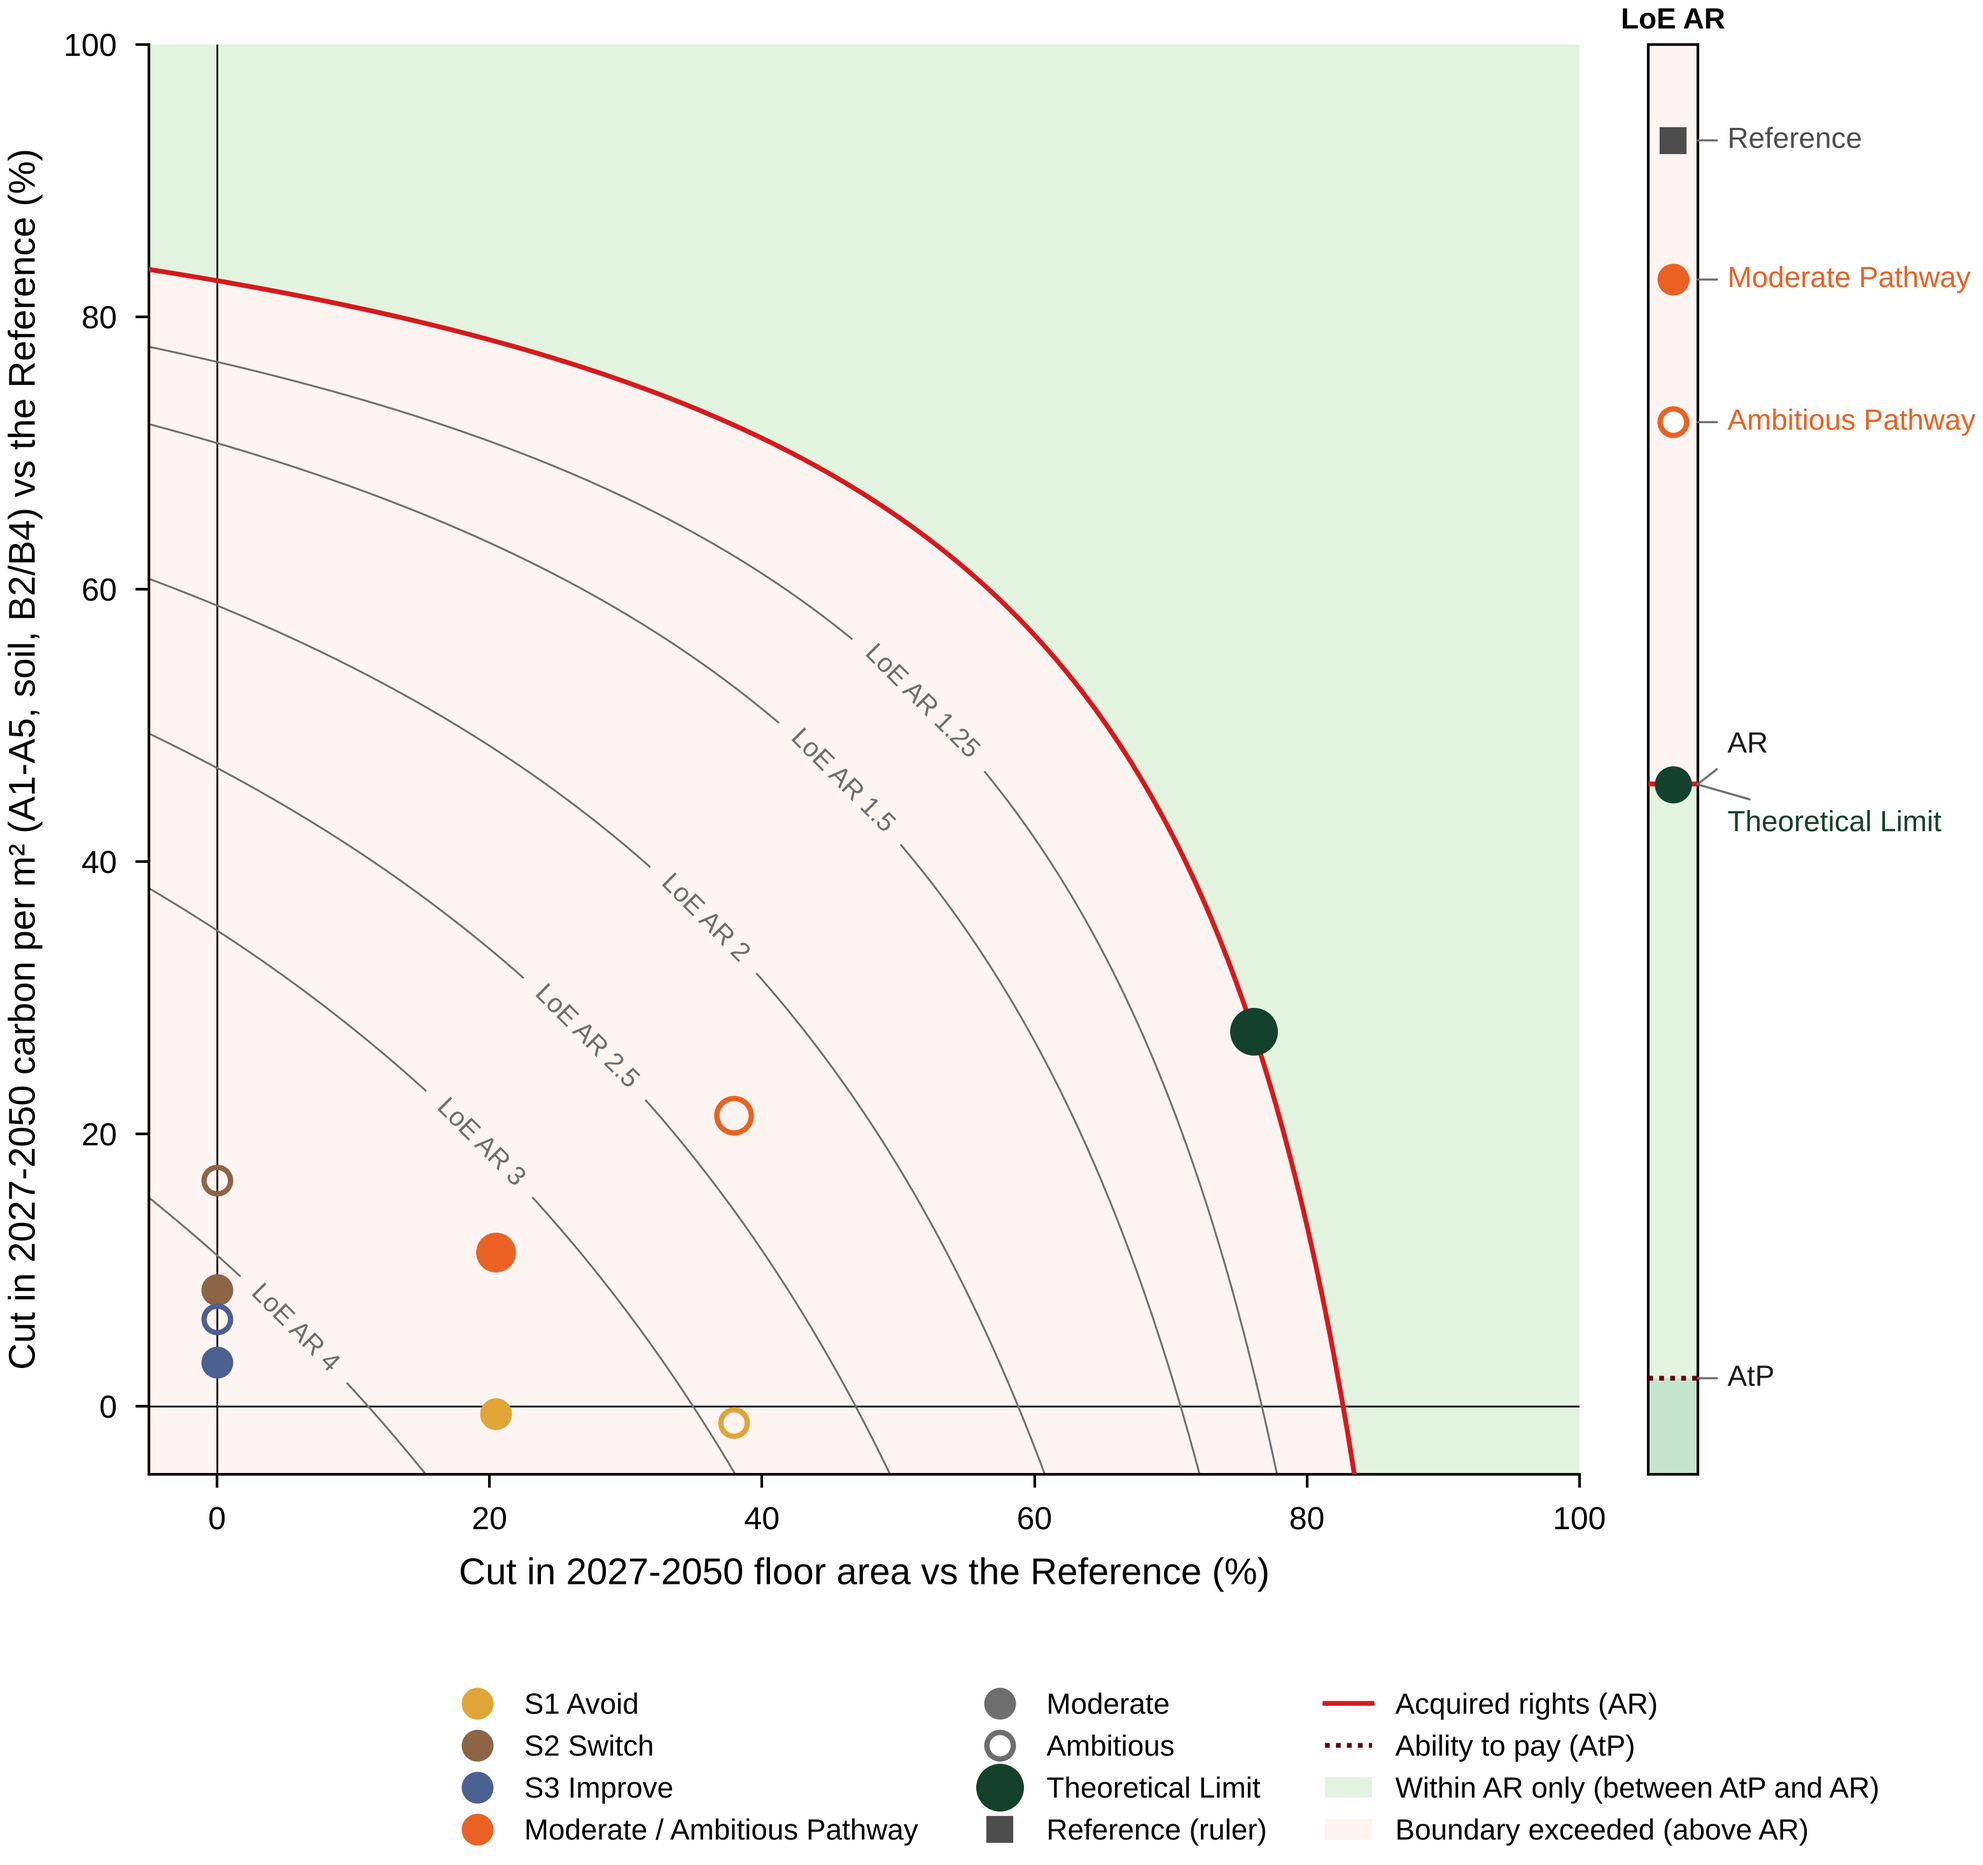
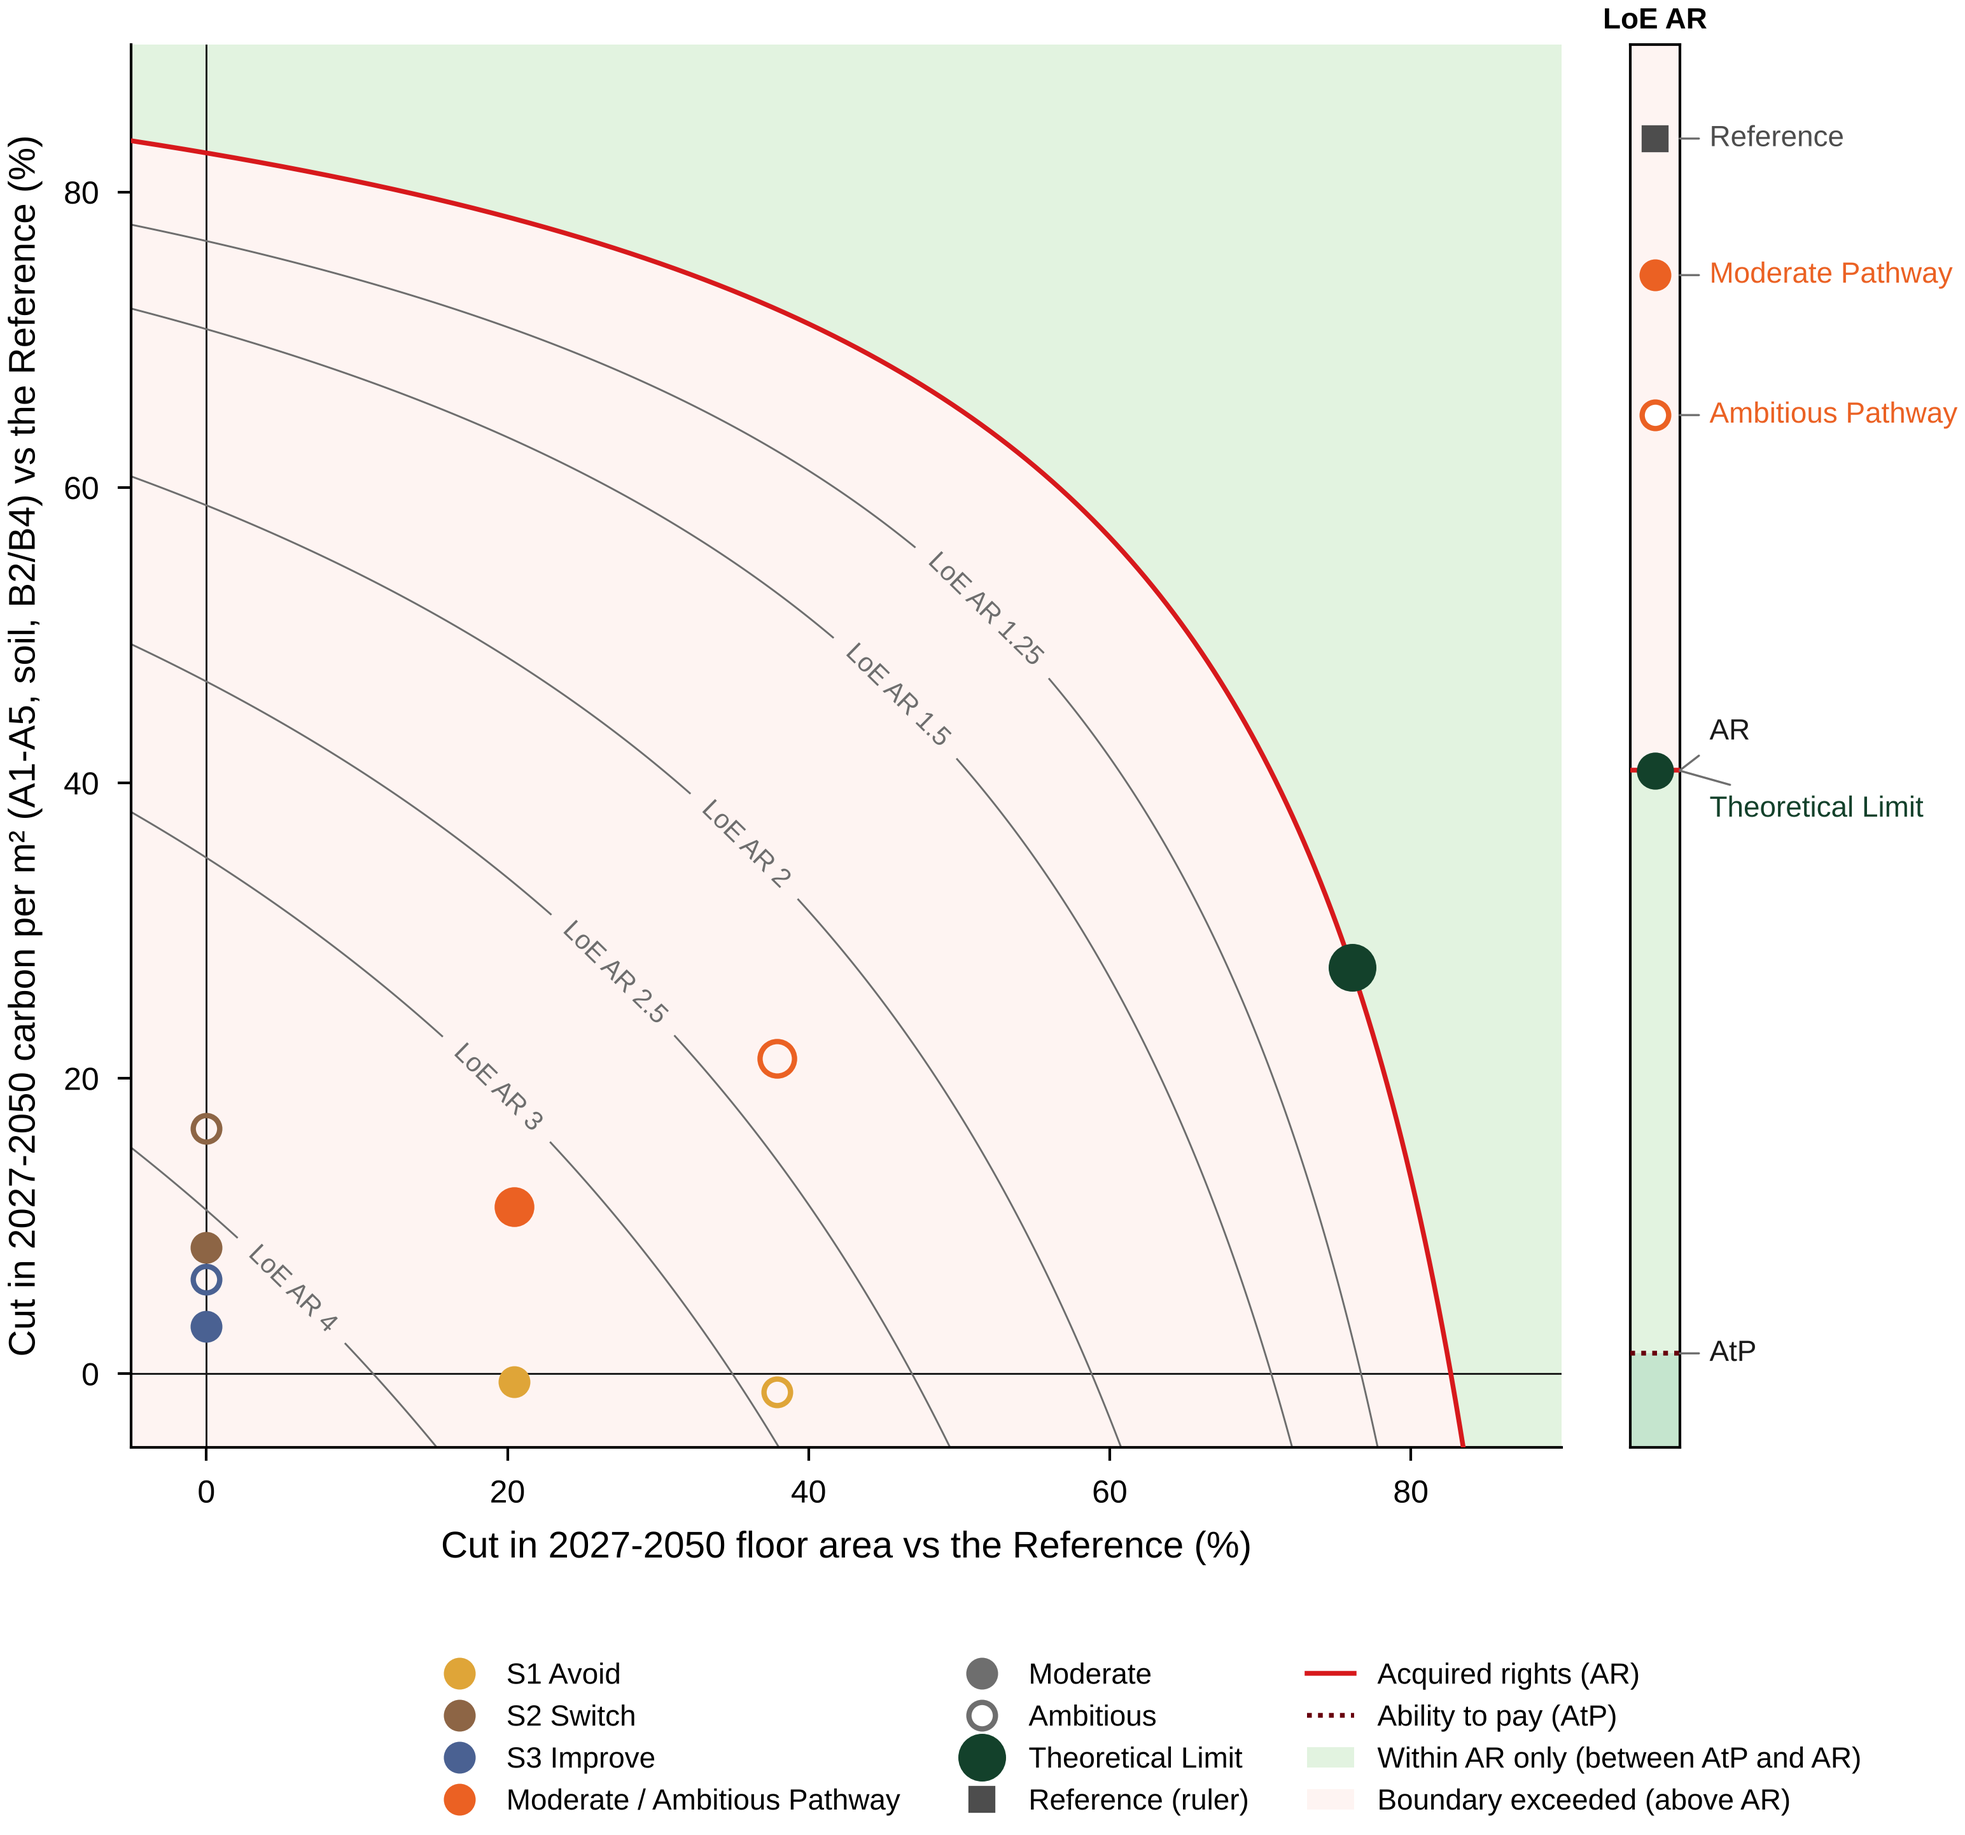
v4.2.2: Fig2 legend tighter, Fig6 clipped at 90% and tightened, Fig8a rows from Completion rate up restored; 600 dpi export, data byte-identical

diff --git a/figures/paper_main.py b/figures/paper_main.py
@@ -336,7 +336,7 @@ def fig2():
         plt.setp(a.get_yticklabels(), visible=False)
     lo_, hi_ = ax[0].get_ylim()
     ticks = [t for t in ax[0].get_yticks() if lo_ <= t <= hi_]
-    ax[0].set_ylim(lo_, hi_ * 1.25)                                   # room above the data for the legends (tight)
+    ax[0].set_ylim(lo_, hi_ * 1.16)                                   # room above the data for the legends (tight)
     ax[0].set_yticks(ticks)                                           # ticks only over the data range
     ax[0].set_ylabel('Embodied carbon (kt CO₂e per year)')
     LEG = dict(loc='upper right', fontsize=S.FONT_MIN, frameon=False, borderaxespad=0.2, labelspacing=0.3)
@@ -647,7 +647,7 @@ def fig5():
 # ---------------------------------------------------------------------------
 # Fig6: the solution space against AR and AtP
 # ---------------------------------------------------------------------------
-FIG6_LIM = (-0.05, 1.0)        # MODEL v3.3.2: both axes from -5% to 100% (v3.3.1: to 110%)
+FIG6_LIM = (-0.05, 0.90)        # MODEL v3.3.2: both axes from -5% to 100% (v3.3.1: to 110%)
 FIG6_N = 421                   # grid points per axis (0.25% steps)
 
 
@@ -735,8 +735,8 @@ def fig6():
     g = np.linspace(lo, hi, FIG6_N)
     X, Y = np.meshgrid(g, g)
     Z = fig6_loe(bc, X, Y)
-    fig = plt.figure(figsize=S.figsize('double', 126))
-    ax = fig.add_axes([0.08, 0.21, 0.52, 0.755])
+    fig = plt.figure(figsize=S.figsize('double', 122))
+    ax = fig.add_axes([0.08, 0.215, 0.52, 0.765])
     S.boundary_field(ax, 100 * X, 100 * Y, Z, 1.0, atp_level, lines=False)
     st = {k: v for k, v in S.BOUNDARY['AR'].items() if k != 'label'}
     for xb, yb in fig6_branches(bc, 1.0):                          # the AR line, exact
@@ -767,7 +767,7 @@ def fig6():
     ax.set_ylim(100 * lo, 100 * hi)
     ax.grid(False)
     # the LoE AR ruler (log): zones, AR and AtP, the plane floor and the runs
-    ru = fig.add_axes([0.625, 0.21, 0.018, 0.755])
+    ru = fig.add_axes([0.625, 0.215, 0.018, 0.765])
     marks = [(N.SCENARIOS['REF'], float(runs['REF']), dict(color=S.REFERENCE, marker='s', ms=4)),
              (N.PATHWAY_RUNS['pathway-moderate'], float(runs['pathway-moderate']),
               dict(color=S.PATHWAY[N.PATHWAY], marker='o', ms=5)),
@@ -946,8 +946,8 @@ def fig8():
     rows = [r if len(r) == 5 else r + (None,) for r in rows]
     span = lambda r: abs(r[4] - c0) if r[4] is not None else abs(r[2] - r[1])
     rows = sorted(rows, key=span)
-    k_cr = [r[0] for r in rows].index('Completion rate (0.93–0.96)')    # MODEL v4.2.1: Completion rate and below only
-    rows = rows[:k_cr + 1]
+    k_cr = [r[0] for r in rows].index('Completion rate (0.93–0.96)')    # MODEL v4.2.2: Completion rate and above
+    rows = rows[k_cr:]                                                  # Completion rate and every larger row
     has_single = any(r[4] is not None for r in rows)
     fig, ax = plt.subplots(1, 2, figsize=S.figsize('double', 77), gridspec_kw={'width_ratios': [1.25, 1]})
     a = ax[0]

diff --git a/tests/test_figures_v3_3_2.py b/tests/test_figures_v3_3_2.py
@@ -6,7 +6,7 @@
   * Fig5: each column total equals Reference - run (pathways/runs.csv) and the band reductions add up to it (1e-9);
   * Fig3b: the 95% interval comes from the per-draw cumulative carbon with the percentile method of MonteCarlo.py, which
     reproduces the stored 5th / 95th percentiles (montecarlo/summary_REF.csv) exactly;
-  * Fig6: the markers lie on the analytic plane (1e-9); the plotted square is -5% to 100%; the AR line is exact.
+  * Fig6: the markers lie on the analytic plane (1e-9); the plotted square is -5% to 90% (MODEL v4.2.2); the AR line is exact.
   * the schematic is a supplementary figure (SF1), not a main figure."""
 import json
 
@@ -59,10 +59,10 @@ def test_fig6_markers_square_and_ar_line():
     for m in bc['solution_space_markers']:
         z = PM.fig6_loe(bc, m['demand_reduction'], m['intensity_reduction'])
         assert np.isclose(z, r.loc[m['run'], 'LoE_AR'], rtol=RTOL, atol=0), m['run']
-    assert PM.FIG6_LIM == (-0.05, 1.0)
+    assert PM.FIG6_LIM == (-0.05, 0.90)                        # MODEL v4.2.2: clipped at 90%
     for x, y in PM.fig6_branches(bc, 1.0):
         assert np.allclose(PM.fig6_loe(bc, x, y), 1.0, rtol=RTOL, atol=0)
-        assert x.min() >= -0.05 and y.max() <= 1.0
+        assert x.min() >= -0.05 and y.max() <= 0.90
 
 
 def test_schematic_is_supplementary():

diff --git a/docs/CHANGELOG_v4_2_2.md b/docs/CHANGELOG_v4_2_2.md
@@ -1,0 +1,20 @@
+# MODEL v4.2.2 — figure corrections
+
+Branch `release/model-v4.2.2`, from `release/model-v4.2.1`, which is kept as it was. Figures only, with the data
+byte-identical.
+
+* **Fig2** — the panel a legend sits tighter to the stack (ylim headroom ×1.16).
+* **Fig6** — both axes are clipped at 90% (`FIG6_LIM = (-0.05, 0.90)`); the layout is tightened, with the legend below.
+  The test in `test_figures_v3_3_2` is updated to the new square.
+* **Fig8a** — restores Completion rate and every row above it. The previous version kept the wrong half.
+* **Fig5** — unchanged; see the note below.
+
+## Note on Fig5
+
+Each column is the reduction vs the Reference, band by band: Reference band − run band, cumulative 2026–2050.
+
+* **Re-used dwellings (TL).** This band is 0 in the Reference and negative in the TL run. Its reduction is
+  0 − (negative) > 0, so it correctly stands above zero: re-use cuts carbon.
+* **Market balance.** It sits below zero because the TL run books less overbuild-absorption credit than the
+  Reference. Its re-used dwellings are valued at the smaller TL new-dwelling size, and the pooled overbuild is
+  re-occupied rather than paid back.

diff --git a/outputs/FIGURES.md b/outputs/FIGURES.md
@@ -50,7 +50,7 @@ Run profile: **full** (5,000 Monte Carlo draws; formats png at 600 dpi). Every f
 
 - Files: `paper_main/Fig6_solution_space.png`
 - Data: `data/pathways/solution_space.csv`, `data/pathways/backcast.json`, `data/pathways/runs.csv`
-- This run: LoE AR = [1,207 + 18,554 (1 - x)(1 - y)] / 4,427 kt; C_2026 = the 2026 cohort's emissions in the window; plane floor C_2026 / B_AR = 0.273 (the lowest LoE AR at x or y = 100%); AtP = B_AtP / B_AR = 0.251 lies below the floor, so the AtP contour is outside the plotted square (y = 100.5% at x = 0). Axes -5% to 100%.
+- This run: LoE AR = [1,207 + 18,554 (1 - x)(1 - y)] / 4,427 kt; C_2026 = the 2026 cohort's emissions in the window; plane floor C_2026 / B_AR = 0.273 (the lowest LoE AR at x or y = 100%); AtP = B_AtP / B_AR = 0.251 lies below the floor, so the AtP contour is outside the plotted square (y = 100.5% at x = 0). Axes -5% to 90%.
 
 ### Fig7_shapley_levers
 
